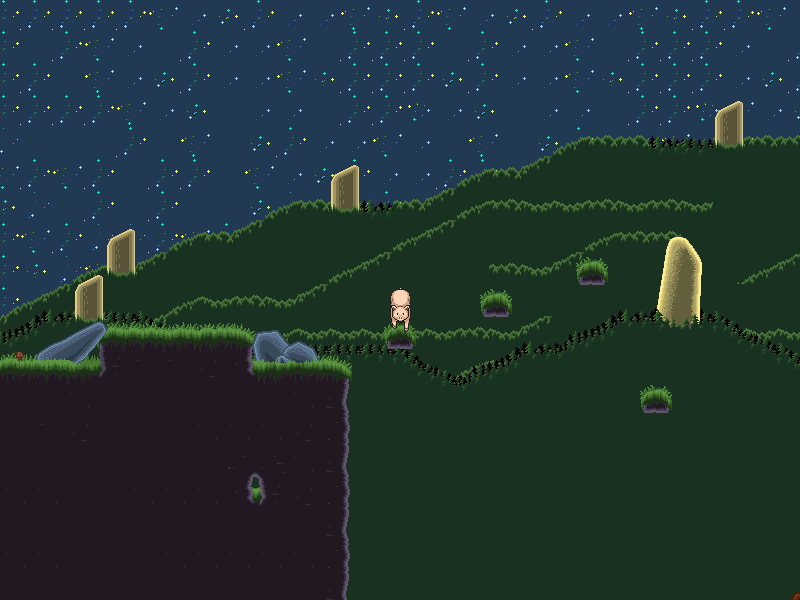
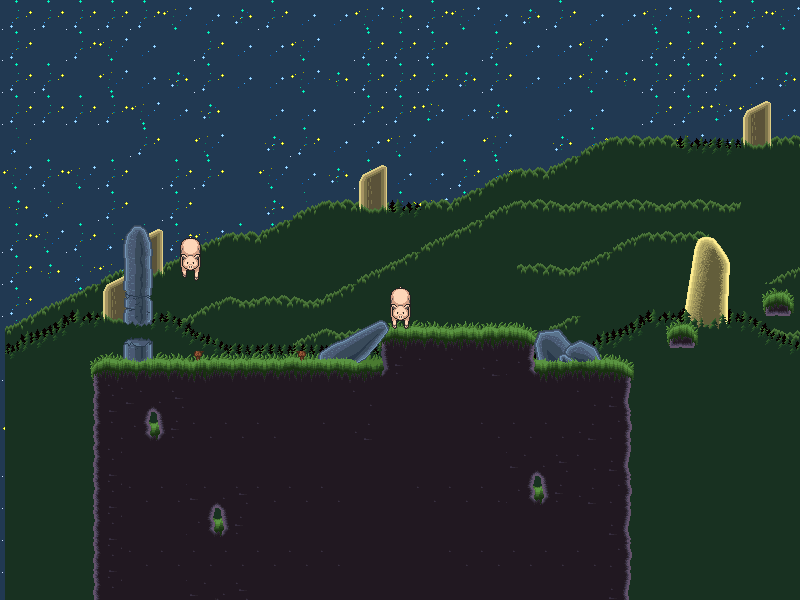
Loading screen

diff --git a/src/screens/loading.py b/src/screens/loading.py
@@ -32,14 +32,26 @@ class LoadingScreen(Screen):
         pygame_logo_size = self.pygame_logo.get_rect().size
         self.pygame_logo = pygame.transform.scale(self.pygame_logo, (pygame_logo_size[0] // 3, pygame_logo_size[1] // 3))
 
+        self.current_slider_x = 0
+        self.current_slider_y = -32
+
     def display(self, screen):
         logo_size = self.logo.get_size()
-        screen.blit(self.logo, (CONFIG.WINDOW_WIDTH // 2 - logo_size[0] // 2, CONFIG.WINDOW_HEIGHT // 2 - 100))
+        screen.blit(self.logo, (CONFIG.WINDOW_WIDTH // 2 - logo_size[0] // 2, CONFIG.WINDOW_HEIGHT // 2 - 150))
         screen.blit(self.pygame_logo, (50, CONFIG.WINDOW_HEIGHT - 100))
 
-        screen.blit(self.loading_slider_first, (CONFIG.WINDOW_WIDTH // 2, CONFIG.WINDOW_HEIGHT // 2))
-        screen.blit(self.loading_slider_center, (CONFIG.WINDOW_WIDTH // 2 + 32, CONFIG.WINDOW_HEIGHT // 2))
-        screen.blit(self.loading_slider_center, (CONFIG.WINDOW_WIDTH // 2 + 2 * 32, CONFIG.WINDOW_HEIGHT // 2))
+        screen.blit(self.loading_slider_center, (self.current_slider_x + self.loading_slider_center.get_width(), self.current_slider_y + CONFIG.WINDOW_HEIGHT // 2))
+
+        screen.blit(self.loading_slider_last, (CONFIG.WINDOW_WIDTH - self.loading_slider_last.get_width(), CONFIG.WINDOW_HEIGHT // 2))
+        screen.blit(self.loading_slider_first, (0, CONFIG.WINDOW_HEIGHT // 2))
+        self.current_slider_x += 32
+        self.current_slider_y += 1
+
+        if self.current_slider_x >= CONFIG.WINDOW_WIDTH - self.loading_slider_last.get_width():
+            self.current_slider_x = 0
+        
+        if self.current_slider_y >= 32:
+            self.current_slider_y = -32
 
         if time.time() - self.time_counter >= self.loading_screen_screentime:
             return Screens.MAIN_MENU

diff --git a/src/animation.py b/src/animation.py
@@ -48,3 +48,6 @@ class Animation:
 
             if self.animation_index == len(self.animation_frames[0]):
                 self.animation_index = 0
+
+    def get_frame(self):
+        return self.animation_frames[self.animation_type][self.animation_index]
